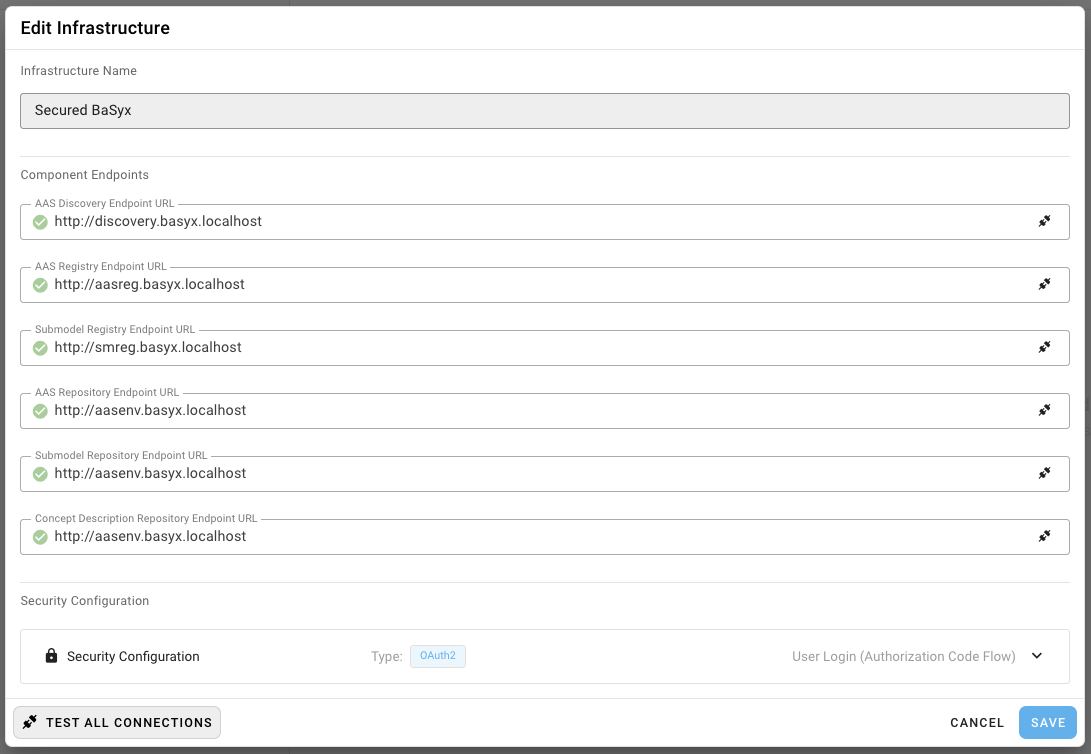
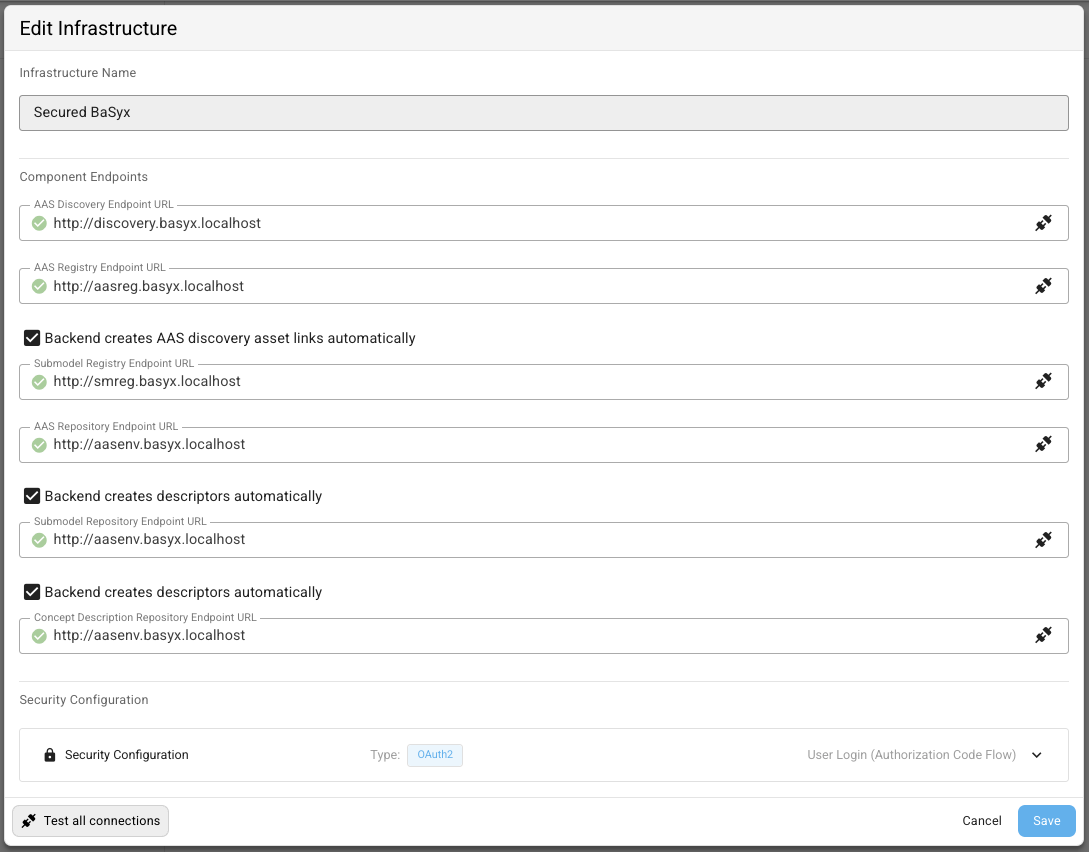
Updates the BaSyx UI wiki pages (#82)
* Updates the BaSyx UI wiki (package manager, backend integration, production plan plugin)

* Updates image for infrastructure editing

Pull request: Updates the BaSyx UI wiki pages
Updates the BaSyx UI wiki (package manager, backend integration, production plan plugin)

diff --git a/docs/source/content/user_documentation/basyx_components/web_ui/features/plugins/production_plan.md b/docs/source/content/user_documentation/basyx_components/web_ui/features/plugins/production_plan.md
@@ -1,0 +1,102 @@
+# Production Plan
+
+> **As a** BaSyx AAS Web UI user  
+> **I want to** visualize Production Plan Submodels with their steps, actions, and statuses  
+> **so that** I can monitor the execution progress of a production order at a glance.
+
+## Semantic ID
+
+This plugin is activated when a Submodel has the following semantic ID:
+
+- `https://smartfactory.de/semantics/submodel/ProductionPlan#1/0`
+
+## Feature Overview
+
+The Production Plan plugin provides a structured visualization of production plans defined by the **SmartFactory Kaiserslautern (SFKL)** Submodel template. It renders the hierarchical structure of a production order — broken down into steps and their associated actions — and displays the current execution status at every level.
+
+The plugin gives operators and engineers a clear overview of which steps and actions have been completed, are in progress, or are still pending, as well as whether the overall plan has finished.
+
+```{figure} ./images/production_plan.png
+---
+width: 50%
+alt: Production Plan Plugin
+name: production_plan_plugin
+---
+Production Plan Plugin showing steps, actions, and their statuses
+```
+
+## Key Features
+
+- **Plan status indicator**: Shows the overall `IsFinished` status of the entire production plan
+- **Step-by-step breakdown**: Lists all production steps with their title, station, enterprise, and workcentre assignment
+- **Step status**: Displays the current status of each step (e.g. `open`, `executing`, `done`)
+- **Action listing**: Expands each step to show its actions with their individual title and status
+- **Machine assignment**: Shows the `MachineName` for each action where available
+
+## Usage
+
+1. Navigate to a Submodel with the Production Plan semantic ID in the AAS Treeview
+2. Open the **Visualization** tab
+3. The plugin displays the overall plan completion status at the top
+4. Each production step is shown with its title and current status
+5. Expand a step to inspect its individual actions and their statuses
+
+## Submodel Structure
+
+The plugin expects the following structure, based on the SFKL Production Plan Submodel template:
+
+### Top-level Elements
+
+| idShort | Type | Description |
+|---------|------|-------------|
+| `IsFinished` | `Property (xs:boolean)` | Overall completion flag for the production plan |
+| `Step00`, `Step01`, … | `SubmodelElementCollection` | One or more production steps |
+
+### Step Structure
+
+Each step collection contains:
+
+| idShort | Type | Description |
+|---------|------|-------------|
+| `StepTitle` | `Property (xs:string)` | Human-readable name of the step |
+| `Status` | `Property (xs:string)` | Execution status of the step |
+| `Station` | `Property (xs:string)` | Target station for the step |
+| `Enterprise` | `Property (xs:string)` | Enterprise responsible for the step |
+| `Workcentre` | `Property (xs:string)` | Workcentre assigned to the step |
+| `Actions` | `SubmodelElementCollection` | Collection of actions within the step |
+| `Scheduling` | `SubmodelElementCollection` | Optional scheduling information |
+| `InitialState` | `SubmodelElementCollection` | Optional initial state definition |
+| `FinalState` | `SubmodelElementCollection` | Optional final state definition |
+
+#### Scheduling Fields (optional)
+
+| idShort | Type | Description |
+|---------|------|-------------|
+| `StartDateTime` | `Property (xs:string)` | Planned start date and time |
+| `EndDateTime` | `Property (xs:string)` | Planned end date and time |
+| `SetupTime` | `Property (xs:string)` | Required setup time |
+| `CycleTime` | `Property (xs:string)` | Cycle time for the step |
+
+### Action Structure
+
+Each action inside the `Actions` collection contains:
+
+| idShort | Type | Description |
+|---------|------|-------------|
+| `ActionTitle` | `Property (xs:string)` | Human-readable name of the action |
+| `Status` | `Property (xs:string)` | Execution status of the action |
+| `MachineName` | `Property (xs:string)` | Optional machine assigned to the action |
+| `InputParameters` | `SubmodelElementCollection` | Optional input parameters |
+| `FinalResultData` | `SubmodelElementCollection` | Optional result data after execution |
+| `Preconditions` | `SubmodelElementCollection` | Optional preconditions |
+| `Effects` | `SubmodelElementCollection` | Optional effects |
+| `SkillReference` | `ReferenceElement` | Optional reference to the executing skill |
+
+## Status Values
+
+The `Status` property on both steps and actions uses string values. Typical values defined by the SFKL template are:
+
+- `open` – not yet started
+- `executing` – currently being executed
+- `done` – successfully completed
+- `error` – execution failed

diff --git a/docs/source/content/developer_documentation/basyx_web_ui/getting_started.md b/docs/source/content/developer_documentation/basyx_web_ui/getting_started.md
@@ -10,7 +10,7 @@ The instructions below are intended for contributors and extension developers. I
 
 * **Node.js**: version **20 LTS or newer**
   * Node.js **24 (current LTS)** is recommended
-* **Yarn** package manager (lockfile-based installation is required)
+* **pnpm** package manager (lockfile-based installation is required)
 * **Git**
 
 The repository commits lockfiles. Please do not switch package managers.
@@ -49,7 +49,7 @@ The script interactively guides you through optional steps such as:
 * Starting the development server
 * Building a Docker image
 
-For most developers, this is preferred over manually navigating into `aas-web-ui/` and running Yarn commands.
+For most developers, this is preferred over manually navigating into `aas-web-ui/` and running pnpm commands.
 
 ## Manual Setup (Alternative)
 
@@ -57,8 +57,8 @@ If you prefer a manual setup, you can work directly in the application directory
 
 ```bash
 cd aas-web-ui
-yarn
-yarn dev
+pnpm install
+pnpm dev
 ```
 
 This starts the Vite development server with hot module replacement enabled.
@@ -67,26 +67,32 @@ This starts the Vite development server with hot module replacement enabled.
 
 The following scripts are defined in `aas-web-ui/package.json`:
 
-* `yarn dev` – start development server
-* `yarn build` – production build
-* `yarn preview` – preview production build locally
-* `yarn lint:check` – run ESLint checks
-* `yarn lint:fix` – fix linting and formatting issues
-* `yarn test` – run unit tests
-* `yarn test:watch` – run tests in watch mode
-* `yarn test:coverage` – generate test coverage
-* `yarn test:ui` – run Vitest UI
+* `pnpm dev` – start development server
+* `pnpm build` – production build (runs lint, tests, and type-check first)
+* `pnpm build-only` – production build without pre-checks (skips lint, tests, and type-check)
+* `pnpm preview` – preview production build locally
+* `pnpm type-check` – TypeScript type checking via `vue-tsc`
+* `pnpm lint` – run ESLint (warnings allowed)
+* `pnpm lint:check` – run ESLint and fail on any warnings
+* `pnpm lint:fix` – fix linting and formatting issues
+* `pnpm test` – run unit tests in interactive mode
+* `pnpm test:run` – run unit tests once (non-interactive, CI-safe)
+* `pnpm test:watch` – run tests in watch mode
+* `pnpm test:coverage` – generate test coverage
+* `pnpm test:ui` – run Vitest UI
+* `pnpm mcp` – apply Ruler MCP rules
+* `pnpm mcp:revert` – revert Ruler MCP rules
 
-Before a production build, the following checks are executed automatically:
+Before a production build (`pnpm build`), the following checks are executed automatically:
 
-* ESLint
+* ESLint (zero warnings)
 * Unit tests
 * TypeScript type checking (vue-tsc)
 
 The same checks are enforced in CI.
 
 ```{hint}
-It is strongly recommended to run `yarn lint:fix` before opening a pull request. The lint configuration includes Prettier and helps catch issues locally before CI runs.
+It is strongly recommended to run `pnpm lint:fix` before opening a pull request. The lint configuration includes Prettier and helps catch issues locally before CI runs.
 ```
 
 ## Configuration in Development Mode

diff --git a/docs/source/content/developer_documentation/basyx_web_ui/configuration.md b/docs/source/content/developer_documentation/basyx_web_ui/configuration.md
@@ -246,12 +246,15 @@ infrastructures:
         baseUrl: "<url>"
       aasRegistry:
         baseUrl: "<url>"
+        hasDiscoveryIntegration: <true|false>  # optional
       submodelRegistry:
         baseUrl: "<url>"
       aasRepository:
         baseUrl: "<url>"
+        hasRegistryIntegration: <true|false>   # optional
       submodelRepository:
         baseUrl: "<url>"
+        hasRegistryIntegration: <true|false>   # optional
       conceptDescriptionRepository:
         baseUrl: "<url>"
     security:
@@ -271,18 +274,21 @@ infrastructures:
   local:
     name: Local Development Environment
     components:
+      aasDiscovery:
+        baseUrl: "http://localhost:9084"
       aasRegistry:
         baseUrl: "http://localhost:9082"
+        hasDiscoveryIntegration: true
       submodelRegistry:
         baseUrl: "http://localhost:9083"
       aasRepository:
         baseUrl: "http://localhost:9081"
+        hasRegistryIntegration: true
       submodelRepository:
         baseUrl: "http://localhost:9081"
+        hasRegistryIntegration: true
       conceptDescriptionRepository:
         baseUrl: "http://localhost:9081"
-      aasDiscovery:
-        baseUrl: "http://localhost:9084"
     security:
       type: none
 ```
@@ -515,6 +521,22 @@ Client secrets in YAML files are visible in the browser. Never use client creden
 #### Bearer Token Fields
 
 * `token` (required): Bearer token string
+
+#### Component Integration Options
+
+These optional boolean flags control who is responsible for synchronizing descriptors and asset links when AAS or submodels change.
+
+**`aasRegistry`:**
+
+* `hasDiscoveryIntegration` (optional, default: `true`): When `true`, the backend is expected to handle Discovery Service synchronization itself — the Web UI will not create, update, or delete asset links in the Discovery Service. When `false`, the Web UI takes over this responsibility and directly manages asset links based on changes to AAS.
+
+**`aasRepository` and `submodelRepository`:**
+
+* `hasRegistryIntegration` (optional, default: `true`): When `true`, the backend is expected to handle Registry synchronization itself — the Web UI will not create, update, or delete descriptors in the corresponding registry. When `false`, the Web UI takes over this responsibility and directly manages descriptors based on changes to AAS and submodels.
+
+```{note}
+Set these flags to `false` when your backend components do **not** have built-in registry or discovery integration. In that case, the Web UI automatically keeps registries and discovery in sync whenever AAS or submodels are created, updated, or deleted.
+```
 
 ### Implementation Details
 

diff --git a/docs/source/content/developer_documentation/basyx_web_ui/testing.md b/docs/source/content/developer_documentation/basyx_web_ui/testing.md
@@ -74,25 +74,33 @@ From the `aas-web-ui/` directory:
 ### Run all tests
 
 ```bash
-yarn test
+pnpm test
 ```
+
+### Run tests once (non-interactive)
+
+```bash
+pnpm test:run
+```
+
+This is the CI-safe variant — equivalent to `vitest run`. It executes all tests once and exits without entering watch mode.
 
 ### Run tests in watch mode
 
 ```bash
-yarn test:watch
+pnpm test:watch
 ```
 
 ### Run tests with UI
 
 ```bash
-yarn test:ui
+pnpm test:ui
 ```
 
 ### Run coverage
 
 ```bash
-yarn test:coverage
+pnpm test:coverage
 ```
 
 This generates coverage reports in:
@@ -104,8 +112,8 @@ This generates coverage reports in:
 Tests are executed as part of the production build checks:
 
 * `prebuild` runs
-  * `yarn lint:check`
-  * `vitest run`
+  * `pnpm lint:check`
+  * `pnpm test:run`
   * `vue-tsc --noEmit`
 
 No minimum coverage threshold is enforced in CI at the moment.
@@ -161,7 +169,7 @@ At the moment, backend access is not a primary testing focus in this repository.
 
 The project uses `@/` alias imports. If a test fails due to module resolution issues, ensure:
 
-* The test is executed via the standard scripts (`yarn test`, `yarn test:watch`, etc.)
+* The test is executed via the standard scripts (`pnpm test`, `pnpm test:watch`, etc.)
 * The Vite/Vitest configuration is used (do not run Vitest with custom flags that bypass config)
 
 ## Summary

diff --git a/docs/source/content/user_documentation/basyx_components/web_ui/features/plugin_mechanism.md b/docs/source/content/user_documentation/basyx_components/web_ui/features/plugin_mechanism.md
@@ -91,6 +91,13 @@ The BaSyx AAS Web UI includes a growing list of plugins for various IDTA Submode
 - Visualizes and controls PackML state machines
 - Allows triggering state transitions and changing operating modes
 
+**[Production Plan](plugins/production_plan.md)**
+
+- **Semantic ID**: `https://smartfactory.de/semantics/submodel/ProductionPlan#1/0`
+- Developed in collaboration with SmartFactory Kaiserslautern (SFKL)
+- Visualizes production steps and their associated actions with real-time status tracking
+- Shows overall plan completion (`IsFinished`), per-step and per-action statuses, scheduling information, and machine assignments
+
 ## Developing your own Plugin
 
 If you are interested in developing your own plugin for the BaSyx AAS Web UI, please refer to the [Plugin Development Guide](../../../../developer_documentation/basyx_web_ui/creating_submodel_plugins.md).
@@ -113,4 +120,5 @@ plugins/file_explorer
 plugins/helloworld_plugin
 plugins/jsonarray_property
 plugins/htw_fuehrungskomponente
+plugins/production_plan
 ```

diff --git a/docs/source/content/developer_documentation/basyx_web_ui/design_guidelines.md b/docs/source/content/developer_documentation/basyx_web_ui/design_guidelines.md
@@ -12,7 +12,7 @@ Before contributing to the BaSyx AAS Web UI, please review the general [Contribu
 
 ### Vuetify Usage and Theming
 
-The Web UI is based on **Vuetify 3**. Global UI behavior is defined in:
+The Web UI is based on **Vuetify 4**. Global UI behavior is defined in:
 
 ```bash
 src/plugins/vuetify.ts
@@ -222,7 +222,7 @@ Key conventions:
 * Absolute paths must respect the configured base path
 
 ```{hint}
-Run `yarn lint:fix` before opening a pull request to resolve formatting and style issues locally.
+Run `pnpm lint:fix` before opening a pull request to resolve formatting and style issues locally.
 ```
 
 ## Testing Considerations

diff --git a/docs/source/content/developer_documentation/basyx_web_ui/architecture.md b/docs/source/content/developer_documentation/basyx_web_ui/architecture.md
@@ -21,7 +21,7 @@ This structure supports long-term evolution, extensibility, and parallel develop
 
 * **Vue 3** with Composition API for component-based UI development
 * **TypeScript** for strong typing and API safety
-* **Vuetify 3** as the UI component framework
+* **Vuetify 4** as the UI component framework
 * **Vite** for fast development builds and optimized production output
 * **Pinia** for centralized, reactive state management
 * **Vue Router** for declarative routing and navigation